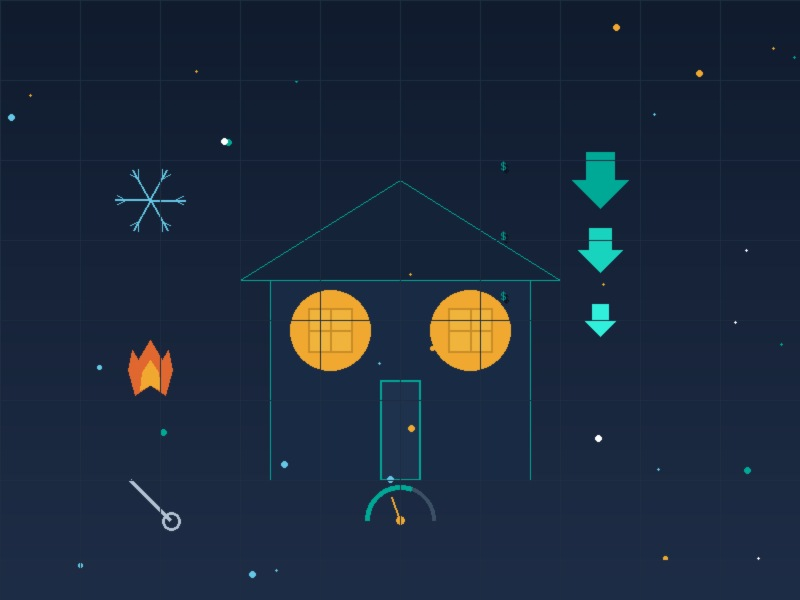
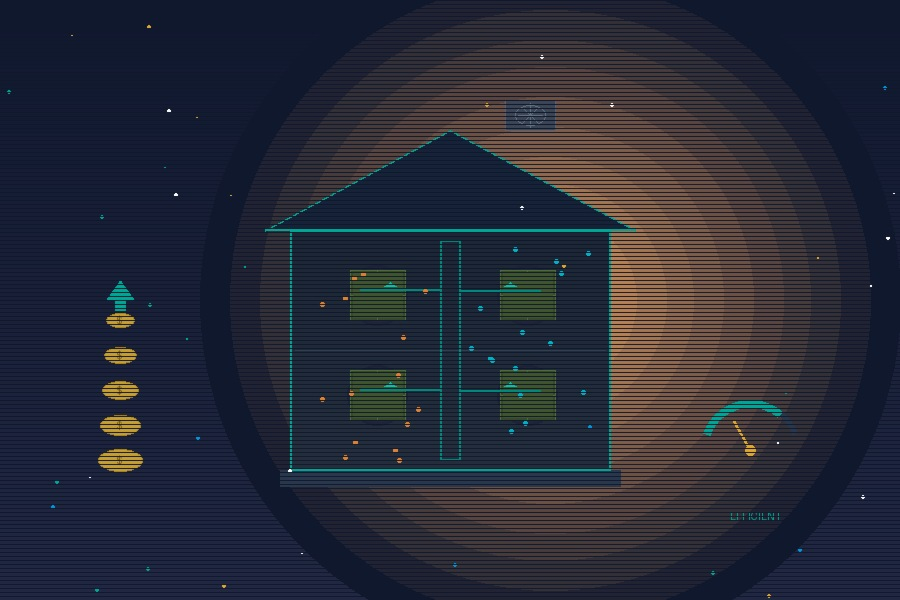
BBB+partner3 no border doubled size, floating card to top-right, new hero HVAC cutaway image

diff --git a/frontend/src/pages/HomePage.jsx b/frontend/src/pages/HomePage.jsx
@@ -63,13 +63,13 @@ export default function HomePage() {
               <div style={{ borderRadius: 'var(--radius-lg)', overflow: 'hidden', boxShadow: '0 30px 60px rgba(0,0,0,0.25)', border: '1px solid rgba(255,255,255,0.06)' }}>
                 <img src={IMG.heroMaintenance} alt="HVAC maintenance" style={{ width: '100%', height: 440, objectFit: 'cover' }} />
               </div>
-              <div style={{ position: 'absolute', bottom: -16, left: -16, background: 'rgba(255,255,255,0.95)', backdropFilter: 'blur(10px)', borderRadius: 16, padding: '16px 20px', boxShadow: '0 10px 36px rgba(0,0,0,0.12)', animation: 'float 5s ease-in-out infinite', maxWidth: 200 }}>
+              <div style={{ position: 'absolute', top: -14, right: -14, background: 'rgba(255,255,255,0.95)', backdropFilter: 'blur(10px)', borderRadius: 16, padding: '14px 18px', boxShadow: '0 10px 36px rgba(0,0,0,0.12)', animation: 'float 5s ease-in-out infinite', maxWidth: 180, zIndex: 2 }}>
                 <div style={{ display: 'flex', alignItems: 'center', gap: 8, marginBottom: 4 }}>
-                  <div style={{ width: 32, height: 32, borderRadius: 8, background: 'var(--green-light)', display: 'flex', alignItems: 'center', justifyContent: 'center' }}><Wrench size={16} color="var(--green)" /></div>
-                  <span style={{ fontSize: 12, fontWeight: 600, color: 'var(--navy)' }}>Annual Savings</span>
+                  <div style={{ width: 30, height: 30, borderRadius: 8, background: 'var(--green-light)', display: 'flex', alignItems: 'center', justifyContent: 'center' }}><Wrench size={14} color="var(--green)" /></div>
+                  <span style={{ fontSize: 11, fontWeight: 600, color: 'var(--navy)' }}>Annual Savings</span>
                 </div>
-                <div style={{ fontFamily: 'var(--font-display)', fontSize: 28, fontWeight: 700, color: 'var(--green)' }}>30%</div>
-                <div style={{ fontSize: 11, color: 'var(--gray-400)' }}>on energy with regular maintenance</div>
+                <div style={{ fontFamily: 'var(--font-display)', fontSize: 26, fontWeight: 700, color: 'var(--green)' }}>30%</div>
+                <div style={{ fontSize: 10, color: 'var(--gray-400)' }}>on energy with maintenance</div>
               </div>
             </div>
           </div>

diff --git a/frontend/src/components/Navbar.jsx b/frontend/src/components/Navbar.jsx
@@ -40,20 +40,11 @@ export default function Navbar() {
             <img src={IMG.logo} alt="Owen HVAC" style={{ height: 72, filter: 'brightness(1.1)' }} />
           </Link>
           <a href="https://www.bbb.org/ca/ns/bedford/profile/heating-and-air-conditioning/owen-hvac-corp-0087-90330?utm_campaign=bbb_seal&utm_content=Owen%20HVAC%20Corp&utm_medium=website&utm_source=seal_click_90330" target="_blank" rel="noopener noreferrer" style={{
-            display: 'flex', alignItems: 'center', gap: 10,
-            background: 'rgba(255,255,255,0.08)', padding: '4px 14px 4px 4px',
-            borderRadius: 10, border: '1px solid rgba(255,255,255,0.12)',
+            display: 'flex', alignItems: 'center', gap: 6,
             textDecoration: 'none', transition: 'all 0.2s',
-          }}
-            onMouseEnter={e => e.currentTarget.style.background = 'rgba(255,255,255,0.15)'}
-            onMouseLeave={e => e.currentTarget.style.background = 'rgba(255,255,255,0.08)'}
-          >
-            <img src="https://m.bbb.org/terminuscontent/dist/img/dynamic-seal/ab-seal-horizontal-can-blue.svg?tx=w_360" alt="Owen HVAC Corp BBB accredited business profile" style={{ width: 64, filter: 'brightness(1.5)' }} />
-            <img src={IMG.partner3} alt="Certified Partner" style={{ width: 104, height: 104, objectFit: 'contain' }} />
-            <div style={{ borderLeft: '1px solid rgba(255,255,255,0.12)', paddingLeft: 10 }}>
-              <div style={{ fontSize: 14, fontWeight: 700, color: 'var(--gold)', lineHeight: 1.15 }}>A+ Rating</div>
-              <div style={{ fontSize: 10, color: 'rgba(255,255,255,0.55)', whiteSpace: 'nowrap' }}>BBB Accredited</div>
-            </div>
+          }}>
+            <img src="https://m.bbb.org/terminuscontent/dist/img/dynamic-seal/ab-seal-horizontal-can-blue.svg?tx=w_360" alt="Owen HVAC Corp BBB accredited business profile" style={{ height: 72, filter: 'brightness(1.5)' }} />
+            <img src={IMG.partner3} alt="Certified Partner" style={{ height: 72, objectFit: 'contain' }} />
           </a>
         </div>
 
